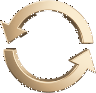
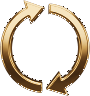
Золотые иконки под новый логотип, прозрачнее рамки, инверсный доллар на фоне, ответ площадки в отзывах
- Иконки и монограмма под новый логотип IMG_1237: современный лакшери-металл,
  роспись только у монограммы P; стрелки обмена раздельные; на монетах —
  заглавная P с логотипа. tools/png-key.js: градационная рампа золота логотипа
  (тень #2E1C0C → золото #A97B3C → блик #F7E7C3).
- Рамки прозрачнее: карточки и поля полупрозрачны (78/72 %), hairlines 6 %,
  шапка и tab bar полупрозрачны; фон — инверсный скан доллара (IMG_1211/IMG_1210)
  в трёх планах с радиальными масками и вуалью (dollar-scan.jpg, dollar-eye.jpg).
- Ответ площадки на отзыв: плоский inset-блок в языке iOS; в демо — карточка
  оператора в списке отзывов вместо prompt() (блокируется в WebView/iframe).

diff --git a/public/ios.css b/public/ios.css
@@ -7,9 +7,11 @@
 :root {
   --bg-1: #080d11;
   --bg-2: #0c1216;
-  --surface: #151b20;      /* карточка / grouped-cell */
-  --surface-2: #1d242a;    /* поле, вложенная плашка */
-  --surface-3: #262e35;
+  /* Поверхности полупрозрачны: сквозь карточки и поля проступает фоновая
+     гравюра, интерфейс читается слоями, а не наклейками на чёрном. */
+  --surface: rgba(21, 27, 32, 0.78);   /* карточка / grouped-cell */
+  --surface-2: rgba(29, 36, 42, 0.72); /* поле, вложенная плашка */
+  --surface-3: rgba(38, 46, 53, 0.82);
   --ink: #f2f1ee;
   --txt-2: #a6adb2;
   --mut: #7a8388;
@@ -20,7 +22,7 @@
   --tint-fill: #c9a87e;    /* сплошные заливки: главная кнопка, шаги, свои сообщения */
   --tint-fill-ink: #1e160c;
   --gram: #a9cbdc;
-  --sep: rgba(var(--line-rgb), 0.09);
+  --sep: rgba(var(--line-rgb), 0.06);
   --ok: #7fb09b;
   --danger: #cf8a8a;
   --r-card: 16px;
@@ -34,8 +36,59 @@
 html, body { background: var(--bg-1); }
 body { font-family: var(--font-sans); letter-spacing: -0.01em; -webkit-font-smoothing: antialiased; }
 
-/* Никакого фона, свечений и анимированных аур. */
-.bg, .bg-glow, .bg-img, .bg-grid, .bg-veil { display: none !important; animation: none !important; }
+/* ---------- Фон: инверсная гравюра доллара в нескольких планах ----------
+   Скан купюры (исходник IMG_1211) подготовлен в инверсии с раздавленными
+   тенями: бумага уходит в чёрный, штрихи гравюры светятся — на графите это
+   выглядит как свет, а не как наклейка. Макро глаза (IMG_1210) — дальний,
+   расфокусированный план. Три слоя различаются величиной, поворотом и
+   прозрачностью; края каждого плана растворяет радиальная маска, поэтому
+   прямоугольник картинки не читается. Поверх — вуаль для читаемости.
+   Слои статичны: без анимаций и аур, как и весь iOS-слой. */
+.bg, .bg-img, .bg-grid, .bg-glow, .bg-veil { display: block !important; }
+/* z-index: -1 — гравюра лежит под контентом, но над фоном страницы: вуаль
+   не затемняет карточки, а проступает сквозь полупрозрачные поверхности. */
+.bg { position: fixed; inset: 0; z-index: -1; pointer-events: none; overflow: hidden; }
+.bg-img, .bg-grid, .bg-glow {
+  position: absolute; inset: -12%;
+  background-repeat: no-repeat;
+  animation: none !important;
+}
+/* Ближний план: портрет Франклина справа сверху, крупно. */
+.bg-img {
+  background-image: url('/img/dollar-scan.jpg');
+  background-size: 135% auto; background-position: 82% -4%;
+  transform: rotate(-10deg);
+  opacity: .08;
+  -webkit-mask-image: radial-gradient(72% 66% at 68% 24%, #000 32%, transparent 80%);
+          mask-image: radial-gradient(72% 66% at 68% 24%, #000 32%, transparent 80%);
+}
+/* Средний план: та же купюра мельче, зеркально и с другим поворотом — слева внизу. */
+.bg-grid {
+  background-image: url('/img/dollar-scan.jpg');
+  background-size: 92% auto; background-position: 4% 98%;
+  transform: rotate(7deg) scaleX(-1);
+  opacity: .05;
+  -webkit-mask-image: radial-gradient(60% 55% at 26% 80%, #000 28%, transparent 78%);
+          mask-image: radial-gradient(60% 55% at 26% 80%, #000 28%, transparent 78%);
+}
+/* Дальний план: макро глаза, очень крупно и размыто — глубина резкости. */
+.bg-glow {
+  background-image: url('/img/dollar-eye.jpg');
+  background-size: 200% auto; background-position: 16% 44%;
+  transform: rotate(-8deg);
+  filter: blur(3px);
+  opacity: .06;
+  -webkit-mask-image: radial-gradient(58% 52% at 34% 50%, #000 26%, transparent 76%);
+          mask-image: radial-gradient(58% 52% at 34% 50%, #000 26%, transparent 76%);
+}
+/* Вуаль: гасит гравюру под шапкой и таб-баром, виньетка по кромкам. */
+.bg-veil {
+  position: absolute; inset: 0; animation: none !important;
+  background:
+    linear-gradient(180deg, rgba(var(--bg-rgb), .88) 0%, rgba(var(--bg-rgb), 0) 16%,
+                    rgba(var(--bg-rgb), 0) 74%, rgba(var(--bg-rgb), .9) 100%),
+    radial-gradient(130% 95% at 50% 42%, rgba(var(--bg-rgb), 0) 52%, rgba(var(--bg-rgb), .5) 100%);
+}
 *::before, *::after { animation-name: none; }
 
 /* ---------- Прелоадер ---------- */
@@ -153,7 +206,7 @@ body { font-family: var(--font-sans); letter-spacing: -0.01em; -webkit-font-smoo
 .hdr {
   margin: 0 -16px; padding: calc(10px + env(safe-area-inset-top)) 16px 8px;
   min-height: calc(52px + env(safe-area-inset-top));
-  background: var(--bg-1); border: 0; box-shadow: none;
+  background: rgba(var(--bg-rgb), 0.86); border: 0; box-shadow: none;
 }
 .hdr-home { min-height: 40px; }
 .hdr-logo-img { width: 30px; height: 30px; border: 0; border-radius: 0; box-shadow: none; }
@@ -425,6 +478,25 @@ body { font-family: var(--font-sans); letter-spacing: -0.01em; -webkit-font-smoo
 .rv-cta-t { font-size: 14px; }
 .rv-item { padding: 14px; }
 .rv-av { border: 0; background: var(--surface-3); font-size: 13px; }
+
+/* Ответ площадки на отзыв — плоский inset-блок в языке iOS-слоя:
+   без градиентной плашки и боковой рамки прежнего amber-слоя. */
+.rv-reply {
+  margin-top: 12px; padding: 12px 14px;
+  border: 0; border-radius: var(--r-ctl);
+  background: var(--surface-2);
+}
+.rv-reply-h {
+  font-family: var(--font-sans); font-size: 13px; font-weight: 600;
+  letter-spacing: 0; text-transform: none; color: var(--tint); margin-bottom: 6px;
+}
+.rv-reply-h span { color: var(--dim); font-size: 11px; letter-spacing: 0; text-transform: none; }
+.rv-reply p { font-size: 14px; line-height: 1.45; color: var(--txt-2); }
+
+/* Демо-оператор: карточка ответа площадки в списке отзывов. */
+.demo-reply .rv-who-row { display: flex; align-items: center; gap: 8px; margin-bottom: 8px; font-size: 14px; }
+.demo-reply-row { display: flex; gap: 8px; margin-top: 10px; }
+.demo-reply-row .btn-sm { flex: 1; min-width: 0; }
 .rv-who b { font-size: 15px; font-weight: 500; } .rv-who span { font-size: 12px; }
 .rv-body { font-size: 14px; line-height: 1.45; }
 
@@ -460,7 +532,7 @@ body { font-family: var(--font-sans); letter-spacing: -0.01em; -webkit-font-smoo
 .nav {
   padding: 6px 4px calc(4px + env(safe-area-inset-bottom));
   grid-template-columns: repeat(5, minmax(0, 1fr)); gap: 0;
-  border-top: 1px solid var(--sep); background: rgba(var(--bg-rgb), .92);
+  border-top: 1px solid var(--sep); background: rgba(var(--bg-rgb), .84);
   backdrop-filter: saturate(180%) blur(20px); -webkit-backdrop-filter: saturate(180%) blur(20px);
 }
 .nav button { min-height: 48px; padding: 4px 0; gap: 3px; border-radius: 0; color: var(--mut); font-size: 10px; font-weight: 500; }

diff --git a/public/app.js b/public/app.js
@@ -1924,6 +1924,51 @@
     return `<div class="card rv-cta"><div class="card-title">Оцените работу брокера</div>${reviewFormHtml('stRv', [o])}</div>`;
   }
 
+  /* Демо-оператор: карточка ответа площадки прямо в списке отзывов.
+     Работает там, где prompt() недоступен (Telegram WebView, iframe). */
+  function demoReplyPanelHtml() {
+    const latest = (S.reviews.list || []).find((x) => x.id === S.demoReplyFor) || (S.reviews.list || [])[0];
+    if (!latest) return '';
+    const current = (latest.reply && latest.reply.text) || '';
+    return `
+      <div class="card demo-reply">
+        <div class="card-title">Оператор · ответ на отзыв #${latest.id}</div>
+        <div class="rv-who-row"><b>${esc(latest.name)}</b>${starsHtml(latest.rating)}</div>
+        <textarea id="demoReplyText" class="rv-text" rows="3" maxlength="1000" placeholder="Ответ от имени PRICELEX…">${esc(current)}</textarea>
+        <div class="demo-reply-row">
+          <button class="btn btn-primary btn-sm" id="demoReplySave">${ICONS.check}<span>Опубликовать</span></button>
+          <button class="btn btn-ghost btn-sm" id="demoReplyRemove"><span>Снять ответ</span></button>
+          <button class="btn btn-ghost btn-sm" id="demoReplyClose"><span>Закрыть</span></button>
+        </div>
+      </div>`;
+  }
+
+  function wireDemoReply() {
+    const save = $('#demoReplySave');
+    if (!save) return;
+    const close = () => { S.demoReplyFor = null; renderReviews(); };
+    save.addEventListener('click', async () => {
+      const ta = $('#demoReplyText');
+      const text = String(ta ? ta.value : '').trim();
+      if (!text) { ta && ta.focus(); return toast('Напишите текст ответа или снимите его'); }
+      save.disabled = true;
+      try {
+        await api(`/api/admin/review/${S.demoReplyFor}/reply`, { method: 'POST', body: { text } });
+        await loadReviews();
+        toast('Ответ PRICELEX опубликован (демо)');
+      } finally {
+        close();
+      }
+    });
+    $('#demoReplyRemove').addEventListener('click', async () => {
+      await api(`/api/admin/review/${S.demoReplyFor}/reply`, { method: 'POST', body: { text: '' } });
+      await loadReviews();
+      toast('Ответ снят (демо)');
+      close();
+    });
+    $('#demoReplyClose').addEventListener('click', close);
+  }
+
   function renderReviews() {
     const v = $('#view-reviews');
     if (!v) return;
@@ -1949,6 +1994,7 @@
       </section>
       ${eligible.length ? `<div class="card"><div class="card-title">Ваш отзыв</div>${reviewFormHtml('tabRv', eligible)}</div>` : ''}
       ${!eligible.length ? `<div class="card rv-cta done"><div class="rv-cta-t">${ICONS.star}<span>${hasCompleted ? 'Спасибо — вы уже оценили свои обмены' : 'Оставить отзыв можно после завершённого обмена'}</span></div></div>` : ''}
+      ${S.isDemo && S.demoReplyFor ? demoReplyPanelHtml() : ''}
       <div class="card-title" style="padding:18px 4px 11px">Отзывы клиентов</div>
       <div id="rvList">${
         list.length
@@ -1961,6 +2007,7 @@
           : `<div class="card"><div class="empty"><div class="e-ic">✦</div>${loaded ? 'Отзывов пока нет — станьте первым, кто оценит PRICELEX.' : 'Загружаем отзывы…'}</div></div>`
       }</div>`;
     wireReviewForm('tabRv', () => (eligible[0] ? eligible[0].id : null));
+    wireDemoReply();
   }
 
   /* ---------- поддержка чат ---------- */
@@ -2081,23 +2128,17 @@
         const m = await api('/api/me');
         S.orders = m.orders;
         await loadReviews();
-        if (r.approved) {
-          renderReviews();
-          return toast(`Оператор одобрил отзывов: ${r.approved} (демо)`);
-        }
+        if (r.approved) toast(`Оператор одобрил отзывов: ${r.approved} (демо)`);
         const latest = (S.reviews.list || [])[0];
         if (!latest) {
           renderReviews();
           return toast('Новых отзывов для оператора нет (демо)');
         }
-        const text = typeof prompt === 'function'
-          ? prompt('Ответ PRICELEX на отзыв (пусто — снять):', (latest.reply && latest.reply.text) || '')
-          : null;
-        if (text == null) { renderReviews(); return; }
-        await api(`/api/admin/review/${latest.id}/reply`, { method: 'POST', body: { text } });
-        await loadReviews();
+        // Ответ собирается в карточке внутри списка отзывов: prompt() в Telegram
+        // и во встроенных WebView блокируется, и ответ площадки просто не появлялся.
+        S.demoReplyFor = latest.id;
         renderReviews();
-        return toast(String(text).trim() ? 'Ответ опубликован (демо)' : 'Ответ снят (демо)');
+        return;
       }
       if (!S.order) return toast('Сначала создайте заявку на обмен');
       const o = S.order;

diff --git a/tools/png-key.js b/tools/png-key.js
@@ -227,16 +227,18 @@ function resize(img, size) {
   return { width: tw, height: th, px: out };
 }
 
-/* ---------- унификация оттенка: градационная карта бронзы ---------- */
+/* ---------- унификация оттенка: градационная карта золота ---------- */
 // Генерация даёт каждый объект со своим нюансом металла (розовее, меднее,
 // зеленоватее). Чтобы набор не различался по оттенкам, цвет каждого
-// непрозрачного пикселя заменяется точкой единой шампанской рампы
-// тень → бронза → блик по его яркости: объём и блики сохраняются,
-// оттенок становится общим у всех иконок и логотипа.
+// непрозрачного пикселя заменяется точкой единой рампы нового логотипа
+// (IMG_1237): тень → тёплое золото → блик по его яркости — объём и блики
+// сохраняются, оттенок становится общим у всех иконок и знака.
 const RAMP = [
-  [0.0, [0x4a, 0x3a, 0x28]],
-  [0.5, [0xc9, 0xa8, 0x7e]],
-  [1.0, [0xfa, 0xec, 0xd0]],
+  [0.0, [0x2e, 0x1c, 0x0c]],
+  [0.35, [0x6b, 0x45, 0x1f]],
+  [0.62, [0xa9, 0x7b, 0x3c]],
+  [0.82, [0xd3, 0xa9, 0x61]],
+  [1.0, [0xf7, 0xe7, 0xc3]],
 ];
 function rampColor(t) {
   const x = Math.min(1, Math.max(0, t));

diff --git a/test/art.test.js b/test/art.test.js
@@ -1,4 +1,4 @@
-// Объёмные бронзовые иконки и логотип (ref IMG_1229) + кнопки-пилюли и
+// Объёмные золотые иконки под стать новому логотипу (ref IMG_1237) + кнопки-пилюли и
 // воздушная типографика (ref IMG_1230): арт с прозрачностью, навигация и
 // этапы подключают файлы, стили живут в ios/devices-слоях.
 const { test } = require('node:test');
